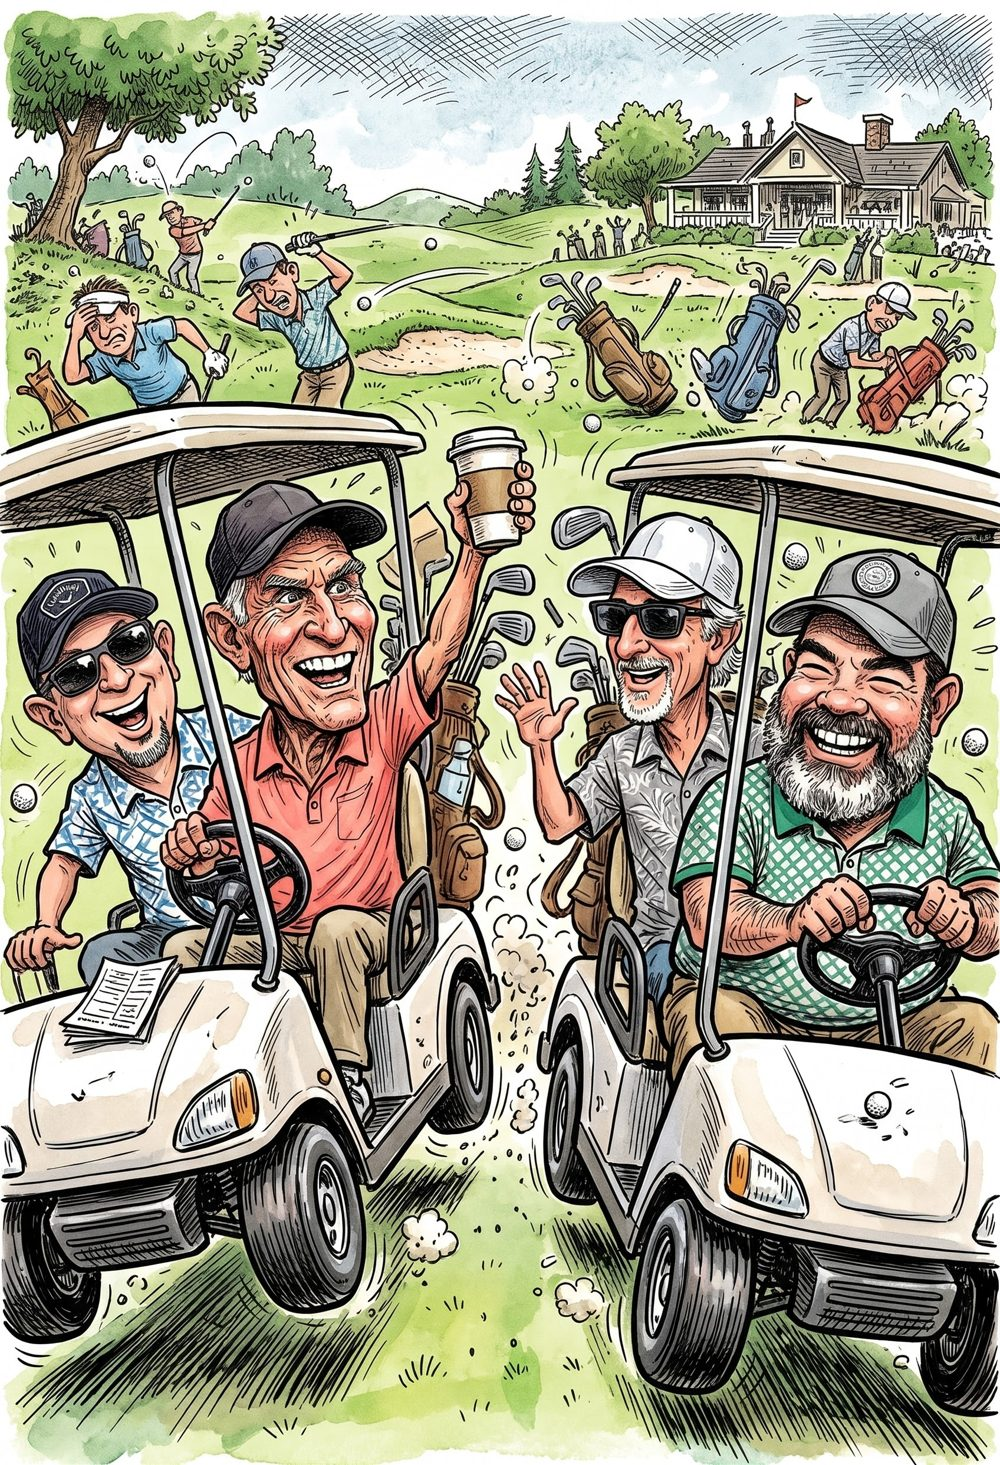
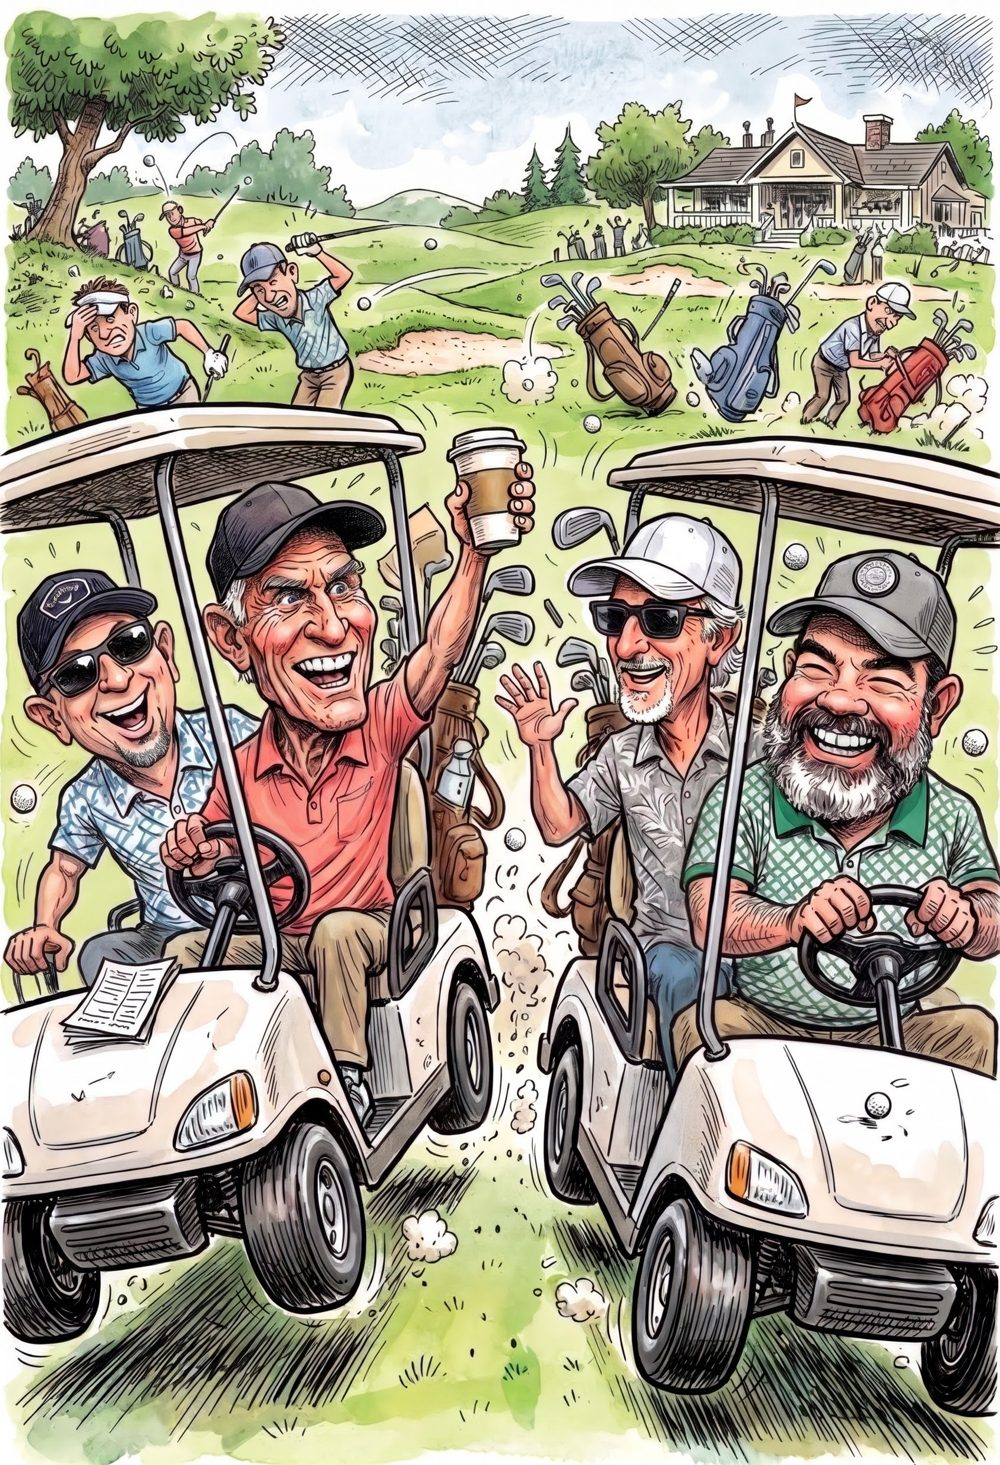
Swap in the slimmer crew illustration
Claude-Session: https://claude.ai/code/session_01RtiPbpAipEKED8kSUJtik4

diff --git a/index.html b/index.html
@@ -81,7 +81,7 @@ footer{text-align:center;color:var(--mute);font-size:.76rem;padding:10px 20px 34
   <section class="panel" id="p-overview">
     <div class="card warn"><div class="body"><strong>Status: inquiry only.</strong> The GolfNevada request for the Wolf Creek – Mesquite package went out 11/8/2026. Nothing below is confirmed yet. Tee times are the requested ones and the hotel is only a maybe (Eureka Casino). Tick things off in the Checklist tab as they lock in.</div></div>
     <div class="card"><div class="photo" style="background-image:url(img/town.jpg)"></div><div class="body"><h3>Mesquite, Nevada</h3><div class="meta">Snow on the peaks, palm trees on the street, six rounds on the schedule.</div></div></div>
-    <div class="card"><div class="crewimg"><img src="img/crew.jpg" alt="Cartoon of Brian, Ron, Ed and Bob racing two golf carts down the fairway" width="1000" height="1465"></div><div class="body"><h3>The Crew</h3><div class="meta">Brian, Ron, Ed and Bob. Two carts, zero chance of staying in the fairway.</div></div></div>
+    <div class="card"><div class="crewimg"><img src="img/crew.jpg?v=2" alt="Cartoon of Brian, Ron, Ed and Bob racing two golf carts down the fairway" width="1000" height="1465"></div><div class="body"><h3>The Crew</h3><div class="meta">Brian, Ron, Ed and Bob. Two carts, zero chance of staying in the fairway.</div></div></div>
     <div class="card"><div class="body"><h3>The plan at a glance</h3>
       <table>
         <tr><th>Day</th><th>Morning</th><th>Afternoon</th></tr>
